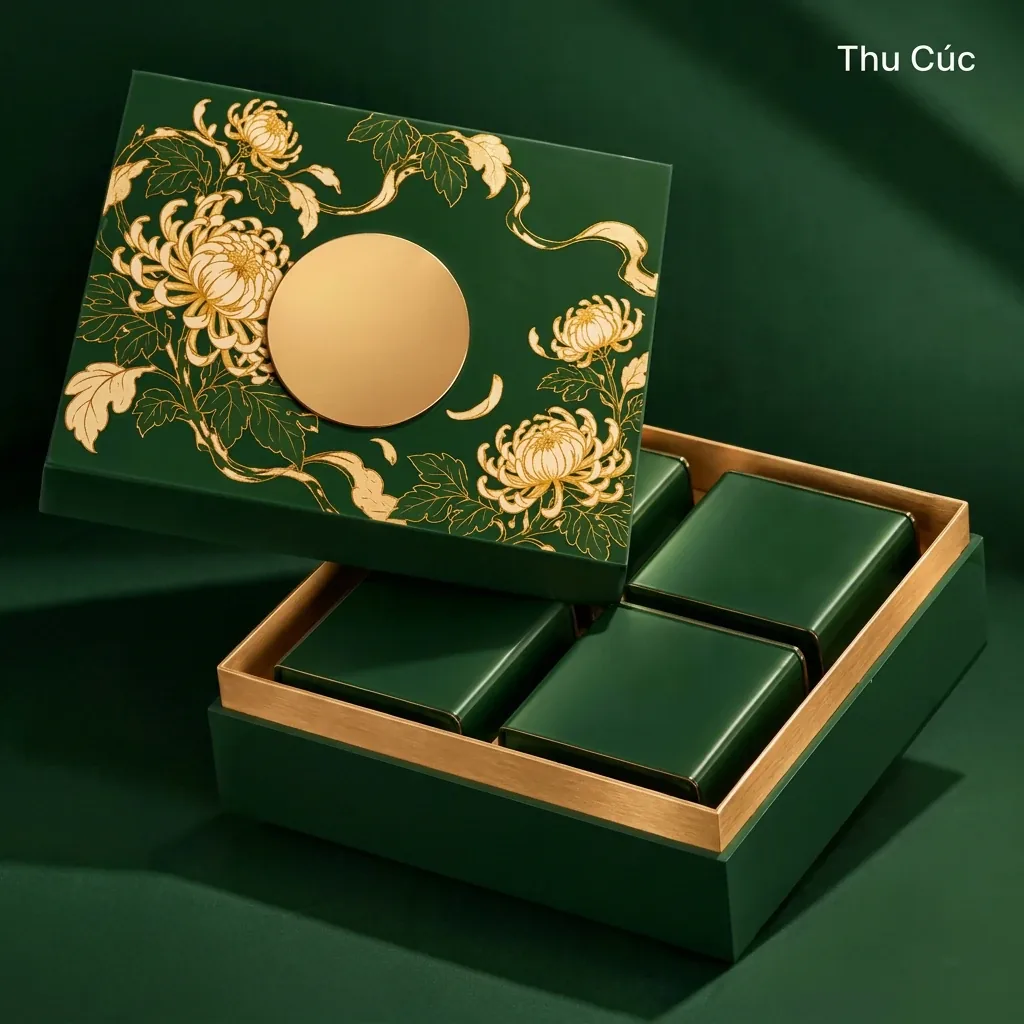
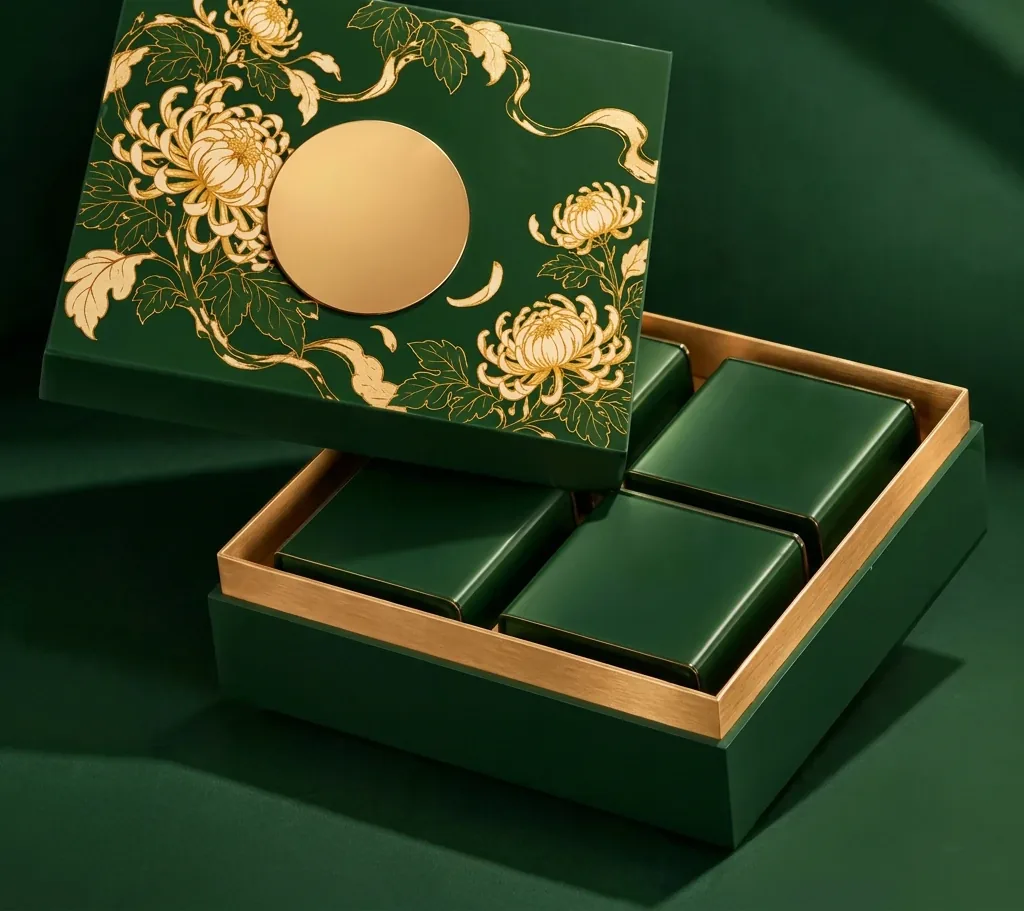
Sửa trang Set độc bản, khối liên hệ đỏ và footer theo góp ý
- Trang con: H1 "Set độc bản" kèm dòng ngân sách, tab mức giá dưới H1, câu giải thích
  ngân sách; ảnh lớn là ảnh hộp, ảnh bàn tiệc thành dải phía dưới; tên phối màu thành
  chú thích, xóa chữ in trên ảnh; ảnh hiện dần một lần.
- Trang chủ: viết lại chữ, đồng bộ dòng mô tả các mức, thêm ảnh nhỏ cho từng mức.
- Khối đỏ nền phẳng, nút trắng; ẩn bong bóng chat trên máy tính.
- Footer: logo đảo màu, gom lại ba cột, bỏ link trang tạm ẩn, © 2026, Hệ sinh thái 100B.

Claude-Session: https://claude.ai/code/session_01HS1DfBWRuWPnpXQLZtUEUG

diff --git a/src/styles/luxe.css b/src/styles/luxe.css
@@ -89,23 +89,24 @@
 
 /* ---------- Footer ---------- */
 .lx-foot { background: var(--lx-ink); color: #FFFFFF; padding: clamp(70px, 8vw, 110px) 0 36px; }
-.lx-foot-grid { display: grid; grid-template-columns: 1.4fr 1fr 1.6fr 1.2fr; gap: clamp(40px, 5vw, 80px); }
-.lx-foot-plate { display: inline-flex; padding: 14px 18px; background: var(--lx-paper); }
-.lx-foot-plate .logo { width: 132px; height: auto; }
+.lx-foot-grid { display: grid; grid-template-columns: 1.6fr 1fr 1fr 1.3fr; gap: clamp(40px, 5vw, 80px); }
+.lx-foot-brand { display: inline-flex; }
+.lx-foot-brand .logo { width: 132px; height: auto; }
 .lx-foot-tag { margin-top: 20px; max-width: 320px; font-size: 14.5px; color: rgba(255, 255, 255, 0.6); }
 .lx-foot-h { margin-bottom: 20px; font-size: 12px; letter-spacing: 0.2em; text-transform: uppercase; color: rgba(255, 255, 255, 0.5); }
 .lx-foot-l { display: flex; flex-direction: column; gap: 13px; font-size: 14.5px; color: rgba(255, 255, 255, 0.82); }
-.lx-foot-l-cols { display: grid; grid-template-columns: 1fr 1fr; gap: 13px 24px; }
 .lx-foot-l a:hover { color: #FF5C80; }
 .lx-foot-bot { display: flex; align-items: center; justify-content: space-between; gap: 24px; flex-wrap: wrap; margin-top: clamp(60px, 7vw, 96px); padding-top: 30px; border-top: 1px solid var(--lx-line-dark); font-size: 13px; color: rgba(255, 255, 255, 0.55); }
 .lx-foot-legal { display: flex; gap: 24px; }
 .lx-foot-legal a:hover { color: #FFFFFF; }
-.lx-foot-eco { display: flex; align-items: center; gap: 14px; font-family: var(--font-display); font-size: 13px; font-weight: 600; letter-spacing: 0.08em; color: rgba(255, 255, 255, 0.7); }
+.lx-foot-eco { display: flex; align-items: center; gap: 14px; font-family: var(--font-display); font-size: 13px; font-weight: 600; letter-spacing: 0.02em; color: rgba(255, 255, 255, 0.7); }
 .lx-foot-eco i { width: 4px; height: 4px; border-radius: 50%; background: var(--lx-red); }
 
 /* Nút Zalo nổi */
 .lx-fab { position: fixed; right: 28px; bottom: 28px; z-index: 90; width: 58px; height: 58px; display: flex; align-items: center; justify-content: center; background: var(--lx-red); color: #FFFFFF; box-shadow: 0 16px 36px var(--lx-red-glow); opacity: 0; transform: translateY(16px); pointer-events: none; transition: opacity 0.4s var(--lx-ease), transform 0.4s var(--lx-ease), background-color 0.3s; }
 .lx-fab.is-shown { opacity: 1; transform: none; pointer-events: auto; }
+/* Máy tính đã có nút Zalo trên menu, chỉ hiện bong bóng chat trên điện thoại và máy tính bảng */
+@media (min-width: 861px) { .lx-fab { display: none; } }
 .lx-fab:hover { background: var(--lx-red-deep); transform: scale(1.06); }
 
 /* ---------- Trang chủ ---------- */
@@ -346,12 +347,15 @@
 .lx-disc .lx-cross { margin-top: 6px; }
 .lx-disc p { font-size: 15px; line-height: 1.6; color: var(--lx-muted); }
 .lx-bud { margin-top: clamp(48px, 6vw, 76px); border-top: 1px solid var(--lx-ink); }
-.lx-bud-row { position: relative; isolation: isolate; display: grid; grid-template-columns: 60px 1.5fr 1fr auto; align-items: center; gap: clamp(20px, 3vw, 56px); padding: clamp(28px, 3.2vw, 42px) 16px; border-bottom: 1px solid var(--lx-line); transition: padding 0.6s var(--lx-ease); }
+.lx-bud-row { position: relative; isolation: isolate; display: grid; grid-template-columns: 40px 120px 1.2fr 1.2fr auto; align-items: center; gap: clamp(20px, 3vw, 56px); padding: clamp(18px, 2vw, 24px) 16px; border-bottom: 1px solid var(--lx-line); transition: padding 0.6s var(--lx-ease); }
+.lx-bud-thumb { display: block; width: 120px; aspect-ratio: 4 / 5; overflow: hidden; background: var(--lx-soft); }
+.lx-bud-thumb img { display: block; width: 100%; height: 100%; object-fit: cover; transition: transform 1.2s var(--lx-ease); }
+.lx-bud-row:hover .lx-bud-thumb img { transform: scale(1.05); }
 .lx-bud-row::before { content: ''; position: absolute; inset: 0; z-index: -1; background: var(--lx-card); opacity: 0; transition: opacity 0.6s var(--lx-ease); }
 .lx-bud-row:hover { padding-inline: 32px; }
 .lx-bud-row:hover::before { opacity: 1; }
 .lx-bud-no { font-family: var(--font-display); font-size: 13px; font-weight: 600; color: var(--lx-muted); }
-.lx-bud-money { font-family: var(--font-display); font-size: clamp(24px, 2.8vw, 38px); font-weight: 600; letter-spacing: -0.03em; font-variant-numeric: tabular-nums; }
+.lx-bud-money { font-family: var(--font-display); font-size: clamp(20px, 1.8vw, 26px); font-weight: 600; letter-spacing: -0.03em; font-variant-numeric: tabular-nums; }
 .lx-bud-money small { margin-left: 8px; font-size: 14px; font-weight: 400; letter-spacing: normal; color: var(--lx-muted); }
 .lx-bud-meta { font-size: 15px; color: var(--lx-muted); }
 .lx-bud-go { display: flex; align-items: center; gap: 10px; font-size: 13px; font-weight: 600; letter-spacing: 0.08em; text-transform: uppercase; }
@@ -377,8 +381,7 @@
 .lx-acc-ico::after { left: 0; top: 8.5px; width: 18px; height: 1.5px; }
 
 /* CTA đỏ */
-.lx-cta { position: relative; overflow: hidden; padding: clamp(96px, 11vw, 160px) 0; background: var(--lx-red); color: #FFFFFF; text-align: center; }
-.lx-cta::before { content: ''; position: absolute; inset: 0; background: radial-gradient(circle at center, rgba(255, 255, 255, 0.12) 0%, transparent 70%); }
+.lx-cta { position: relative; overflow: hidden; padding: clamp(96px, 11vw, 160px) 0; background: #DB0D3E; color: #FFFFFF; text-align: center; }
 .lx-cta .lx-wrap { position: relative; }
 .lx-cta h2 { font-size: clamp(34px, 5vw, 68px); letter-spacing: -0.03em; }
 .lx-cta p { max-width: 620px; margin: 24px auto 0; font-size: 17px; line-height: 1.65; color: rgba(255, 255, 255, 0.9); }
@@ -493,7 +496,8 @@
 .lx-sd-other-img svg { transition: transform 0.9s var(--lx-ease); }
 .lx-sd-other:hover .lx-sd-other-img svg { transform: scale(1.12); }
 @media (prefers-reduced-motion: reduce) {
-  .lx-sd-intro > * { animation: none; }
+  .lx-sd-intro > *, .lx-bp-hero-in > * { animation: none; }
+  .lx-bp-reveal .lx-bp-fig { opacity: 1; transform: none; transition: none; }
   .lx-sd-steps .lx-cmp-step-n, .lx-sd-items .lx-cmp-step-n { color: var(--lx-red); }
 }
 
@@ -501,28 +505,45 @@
 /* ---------- Trang con Set độc bản (/set-doc-ban/:slug) ---------- */
 .lx-bp { background: var(--lx-paper); }
 .lx-bp-hero { padding: calc(var(--lx-nav-h) + clamp(28px, 4vw, 56px)) 0 clamp(40px, 5vw, 72px); }
-.lx-bp-hero-row { display: flex; flex-wrap: wrap; align-items: flex-end; justify-content: space-between; gap: 32px 64px; }
-.lx-bp h1 { margin-top: 16px; font-family: var(--font-display); font-size: clamp(42px, 6vw, 88px); font-weight: 600; line-height: 0.98; letter-spacing: -0.04em; font-variant-numeric: tabular-nums; }
-.lx-bp h1 small { font-size: 0.32em; font-weight: 500; letter-spacing: 0; color: var(--lx-muted); }
-.lx-bp-meta { margin-top: 16px; font-size: clamp(16px, 1.3vw, 19px); color: var(--lx-muted); }
-.lx-bp-hero-side { display: flex; flex-direction: column; align-items: flex-start; gap: 24px; }
-.lx-bp-hero-side .lx-sd-actions { margin-top: 0; }
-.lx-bp-tiers { display: flex; flex-wrap: wrap; gap: 6px 22px; font-size: 14.5px; font-variant-numeric: tabular-nums; }
-.lx-bp-tiers a { padding-bottom: 4px; border-bottom: 1px solid transparent; color: var(--lx-muted); transition: color 0.3s var(--lx-ease), border-color 0.3s var(--lx-ease); }
+.lx-bp-hero-in { max-width: 760px; }
+.lx-bp h1 { margin-top: 16px; font-family: var(--font-display); font-size: clamp(40px, 5.4vw, 76px); font-weight: 600; line-height: 1; letter-spacing: -0.04em; }
+.lx-bp h1 span { display: block; margin-top: 12px; font-family: var(--font-sans, inherit); font-size: clamp(17px, 1.5vw, 21px); font-weight: 400; letter-spacing: 0; line-height: 1.4; color: var(--lx-muted); font-variant-numeric: tabular-nums; }
+.lx-bp-meta { margin-top: 10px; font-size: 15.5px; color: var(--lx-muted); }
+.lx-bp-tiers { display: flex; flex-wrap: wrap; gap: 4px 28px; margin-top: 28px; border-bottom: 1px solid var(--lx-line); font-size: 14px; font-weight: 500; font-variant-numeric: tabular-nums; }
+.lx-bp-tiers a { margin-bottom: -1px; padding: 10px 0 12px; border-bottom: 2px solid transparent; color: var(--lx-muted); transition: color 0.3s var(--lx-ease), border-color 0.3s var(--lx-ease); }
 .lx-bp-tiers a:hover { color: var(--lx-ink); }
-.lx-bp-tiers a.is-current { color: var(--lx-red); border-bottom-color: var(--lx-red); }
+.lx-bp-tiers a.is-current { color: var(--lx-ink); border-bottom-color: var(--lx-red); }
+.lx-bp-note { margin-top: 20px; max-width: 620px; font-size: 15px; line-height: 1.65; color: var(--lx-muted); }
+.lx-bp-hero-in .lx-sd-actions { margin-top: 28px; }
+/* Mở trang: phần đầu hiện dần một lần */
+@keyframes lx-bp-in { from { opacity: 0; transform: translateY(12px); } }
+.lx-bp-hero-in > * { animation: lx-bp-in 0.9s var(--lx-ease) both; }
+.lx-bp-hero-in > :nth-child(2) { animation-delay: 0.08s; }
+.lx-bp-hero-in > :nth-child(3) { animation-delay: 0.16s; }
+.lx-bp-hero-in > :nth-child(4) { animation-delay: 0.24s; }
+.lx-bp-hero-in > :nth-child(5) { animation-delay: 0.32s; }
+.lx-bp-hero-in > :nth-child(6) { animation-delay: 0.4s; }
 .lx-bp-body { padding-bottom: clamp(64px, 8vw, 120px); }
 .lx-bp-col { padding: clamp(44px, 5.5vw, 80px) 0; border-top: 1px solid var(--lx-line); }
 .lx-bp-col-head { margin-bottom: clamp(24px, 3vw, 40px); }
 .lx-bp-col-head h2 { margin-top: 12px; }
-.lx-bp-grid { display: grid; grid-template-columns: 1fr 1fr; gap: clamp(10px, 1.2vw, 18px); }
-.lx-bp-items { display: grid; grid-template-columns: 1fr 1fr; gap: clamp(10px, 1.2vw, 18px); }
-.lx-bp-shot { display: block; position: relative; overflow: hidden; background: var(--lx-soft); cursor: zoom-in; }
-.lx-bp-item { aspect-ratio: 1; }
-.lx-bp-cover { height: 100%; min-height: 100%; }
+.lx-bp-grid { display: grid; grid-template-columns: 1fr 1fr; gap: clamp(10px, 1.2vw, 18px); align-items: start; }
+.lx-bp-items { display: grid; grid-template-columns: 1fr 1fr; gap: clamp(16px, 1.6vw, 24px) clamp(10px, 1.2vw, 18px); }
+.lx-bp-row .lx-bp-items { grid-template-columns: repeat(4, 1fr); }
+.lx-bp-fig { display: flex; flex-direction: column; gap: 10px; }
+.lx-bp-fig figcaption { font-size: 12px; color: var(--lx-muted); }
+.lx-bp-shot { display: block; position: relative; width: 100%; overflow: hidden; background: var(--lx-soft); cursor: zoom-in; }
+.lx-bp-item .lx-bp-shot { aspect-ratio: var(--ar, 1); }
+.lx-bp-row .lx-bp-item .lx-bp-shot { aspect-ratio: 1024 / 911; }
+.lx-bp-cover .lx-bp-shot { aspect-ratio: 1; }
+.lx-bp-scene { margin-top: clamp(16px, 1.6vw, 24px); }
+.lx-bp-scene .lx-bp-shot { aspect-ratio: 21 / 8; }
 .lx-bp-shot img { display: block; width: 100%; height: 100%; object-fit: cover; transition: transform 1.4s var(--lx-ease); }
 .lx-bp-shot:hover img { transform: scale(1.04); }
 .lx-bp-shot:focus-visible { outline: 2px solid var(--lx-red); outline-offset: 3px; }
+/* Ảnh hiện dần một lần khi cuộn tới, lệch nhau 0,06 giây, thu nhẹ từ 102% về 100% */
+.lx-bp-reveal .lx-bp-fig { opacity: 0; transform: scale(1.02); transition: opacity 0.9s var(--lx-ease), transform 1.1s var(--lx-ease); transition-delay: calc(var(--i, 0) * 0.06s); }
+.lx-bp-reveal.is-in .lx-bp-fig { opacity: 1; transform: none; }
 .lx-bp-waiting { border-top: 1px solid var(--lx-line); }
 .lx-bp-wait { display: flex; align-items: baseline; gap: 20px; padding: 22px 0; border-bottom: 1px solid var(--lx-line); font-size: 16px; }
 .lx-bp-wait .is-pending { margin-left: auto; font-size: 14.5px; color: var(--lx-muted); font-style: italic; }
@@ -572,15 +593,17 @@
   .lx-cards { grid-template-columns: repeat(2, 1fr); gap: 28px 14px; }
   .lx-sd-shots { grid-template-columns: 1fr 1fr; }
   .lx-bp-grid { grid-template-columns: 1fr; }
-  .lx-bp-cover { height: auto; aspect-ratio: 1; }
+  .lx-bp-row .lx-bp-items { grid-template-columns: 1fr 1fr; }
+  .lx-bp-scene .lx-bp-shot { aspect-ratio: 3 / 2; }
   .lx-sd-shot:first-child { grid-column: 1 / -1; }
   .lx-lb { padding: 72px 16px; }
   .lx-lb-prev, .lx-lb-next { top: auto; bottom: 18px; }
   .lx-lb-prev { left: calc(50% - 60px); }
   .lx-lb-next { right: calc(50% - 60px); }
-    .lx-bud-row { grid-template-columns: 1fr auto; gap: 12px; }
+    .lx-bud-row { grid-template-columns: 88px 1fr auto; gap: 6px 16px; }
+  .lx-bud-thumb { width: 88px; grid-row: span 2; }
   .lx-bud-no { display: none; }
-  .lx-bud-meta { grid-column: 1 / -1; }
+  .lx-bud-meta { grid-column: 2 / -1; }
   .lx-foot-grid { grid-template-columns: 1fr; gap: 40px; }
   .lx-fab { right: 18px; bottom: 18px; }
 }

diff --git a/src/pages/BespokePage.tsx b/src/pages/BespokePage.tsx
@@ -1,4 +1,5 @@
-import { useCallback, useState } from 'react';
+import { useCallback, useState, type CSSProperties } from 'react';
+import { useInView } from '@/hooks/use-in-view';
 import { Link, useRoute } from 'wouter';
 import { bespokeTiers, pendingSpec, type BespokeCollection, type BespokeImage } from '@/data/content';
 import { SiteShell } from '@/components/layout/SiteChrome';
@@ -9,35 +10,47 @@ import { NotFoundPage } from '@/pages/UtilityPages';
 
 const pad = (n: number) => String(n).padStart(2, '0');
 
-function Shot({ img, className, onOpen, priority }: { img: BespokeImage; className: string; onOpen: () => void; priority?: boolean }) {
+function Shot({ img, className, onOpen, i, caption, priority }: { img: BespokeImage; className: string; onOpen: () => void; i: number; caption?: boolean; priority?: boolean }) {
   return (
-    <button type="button" className={`lx-bp-shot ${className}`} onClick={onOpen} aria-label={`Phóng to ảnh: ${img.name}`}>
-      <img src={img.src} alt={img.alt} width={1024} height={1024} loading={priority ? 'eager' : 'lazy'} decoding="async" style={img.pos ? { objectPosition: img.pos } : undefined} />
-    </button>
+    <figure className={`lx-bp-fig ${className}`} style={{ '--i': i } as CSSProperties}>
+      <button type="button" className="lx-bp-shot" onClick={onOpen} aria-label={`Phóng to ảnh: ${img.name}`}>
+        <img src={img.src} alt={img.alt} width={img.w ?? 1024} height={img.h ?? 1024} loading={priority ? 'eager' : 'lazy'} decoding="async" style={img.pos ? { objectPosition: img.pos } : undefined} />
+      </button>
+      {caption && <figcaption>{img.name}</figcaption>}
+    </figure>
   );
 }
 
-/** Một bộ sưu tập có ảnh: ảnh bìa vuông lớn bên trái, 4 mẫu xếp 2×2 bên phải. Bấm ảnh để phóng to. */
+/**
+ * Một bộ sưu tập có ảnh. Có ảnh bìa (ảnh thiết kế hộp): bìa vuông lớn bên trái, 4 phối màu 2×2 bên phải.
+ * Không có ảnh bìa: 4 phối màu xếp một hàng. Ảnh đời sống (scene) là dải mỏng phía dưới. Bấm ảnh để phóng to.
+ * Ảnh hiện dần một lần khi cuộn tới, lệch nhau 0,06 giây.
+ */
 function Collection({ col, no, unit, first }: { col: BespokeCollection; no: number; unit: string; first: boolean }) {
   const [shot, setShot] = useState<number | null>(null);
-  const images = [col.cover, ...col.items].filter(Boolean) as BespokeImage[];
+  const [ref, inView] = useInView<HTMLDivElement>({ threshold: 0.12, once: true, rootMargin: '0px 0px -8% 0px' });
+  const images = [col.cover, ...col.items, col.scene].filter(Boolean) as BespokeImage[];
   const close = useCallback(() => setShot(null), []);
   const move = useCallback((step: number) => setShot((i) => (i === null ? i : (i + step + images.length) % images.length)), [images.length]);
+  const at = (img: BespokeImage) => images.indexOf(img);
   return (
     <section className="lx-bp-col" aria-labelledby={`lx-bp-col-${no}`}>
-      <Reveal className="lx-bp-col-head">
+      <div className="lx-bp-col-head">
         <p className="lx-eyebrow">{unit} {pad(no)}</p>
         <h2 id={`lx-bp-col-${no}`}>{col.name}</h2>
-      </Reveal>
-      <Reveal className="lx-bp-grid" delay={1}>
-        {col.cover && <Shot img={col.cover} className="lx-bp-cover" onOpen={() => setShot(0)} priority={first} />}
-        <div className="lx-bp-items">
-          {col.items.map((img, i) => <Shot key={img.src} img={img} className="lx-bp-item" onOpen={() => setShot(i + (col.cover ? 1 : 0))} />)}
+      </div>
+      <div ref={ref} className={`lx-bp-reveal${inView ? ' is-in' : ''}`}>
+        <div className={col.cover ? 'lx-bp-grid' : 'lx-bp-row'}>
+          {col.cover && <Shot img={col.cover} i={0} className="lx-bp-cover" onOpen={() => setShot(at(col.cover!))} priority={first} />}
+          <div className="lx-bp-items">
+            {col.items.map((img, i) => <Shot key={img.src} img={img} i={i + 1} caption className="lx-bp-item" onOpen={() => setShot(at(img))} priority={first && !col.cover} />)}
+          </div>
         </div>
-      </Reveal>
+        {col.scene && <Shot img={col.scene} i={col.items.length + 1} caption className="lx-bp-scene" onOpen={() => setShot(at(col.scene!))} />}
+      </div>
       {shot !== null && (
         <Lightbox
-          slides={images.map((img) => ({ caption: img.name === col.name ? `Bộ sưu tập ${col.name}` : `${img.name} · ${col.name}`, label: `Ảnh ${col.name}`, content: <img src={img.src} alt={img.alt} /> }))}
+          slides={images.map((img) => ({ caption: img === col.cover ? `Bộ sưu tập ${col.name}` : `${img.name} · ${col.name}`, label: `Ảnh ${col.name}`, content: <img src={img.src} alt={img.alt} /> }))}
           index={shot}
           onClose={close}
           onMove={move}
@@ -67,22 +80,19 @@ export function BespokePage() {
               <span aria-hidden="true">/</span>
               <span aria-current="page">{tier.money}</span>
             </nav>
-            <div className="lx-bp-hero-row">
-              <div className="lx-sd-intro">
-                <p className="lx-eyebrow">Set độc bản</p>
-                <h1 id="lx-bp-title">{tier.money} <small>/ set</small></h1>
-                <p className="lx-bp-meta">{tier.meta}</p>
-              </div>
-              <div className="lx-bp-hero-side">
-                <nav className="lx-bp-tiers" aria-label="Các mức ngân sách">
-                  {bespokeTiers.map((t) => (
-                    <Link key={t.slug} href={`/set-doc-ban/${t.slug}`} className={t.slug === tier.slug ? 'is-current' : undefined} aria-current={t.slug === tier.slug ? 'page' : undefined}>{t.money}</Link>
-                  ))}
-                </nav>
-                <div className="lx-sd-actions">
-                  <ZaloLink className="lx-btn lx-btn-red">Tư vấn qua Zalo</ZaloLink>
-                  <Link href="/#quy-trinh" className="lx-sd-textlink">Xem quy trình <span aria-hidden="true">→</span></Link>
-                </div>
+            <div className="lx-bp-hero-in">
+              <p className="lx-eyebrow">Mô hình 02</p>
+              <h1 id="lx-bp-title">Set độc bản <span>ngân sách {tier.money} mỗi set</span></h1>
+              <p className="lx-bp-meta">{tier.meta}</p>
+              <nav className="lx-bp-tiers" aria-label="Các mức ngân sách">
+                {bespokeTiers.map((t) => (
+                  <Link key={t.slug} href={`/set-doc-ban/${t.slug}`} className={t.slug === tier.slug ? 'is-current' : undefined} aria-current={t.slug === tier.slug ? 'page' : undefined}>{t.money}</Link>
+                ))}
+              </nav>
+              <p className="lx-bp-note">Ngân sách tham khảo cho trọn bộ, gồm thiết kế riêng, bao bì và sản phẩm bên trong. Sản lượng tối thiểu và báo giá chính xác theo từng dự án.</p>
+              <div className="lx-sd-actions">
+                <ZaloLink className="lx-btn lx-btn-red">Tư vấn qua Zalo</ZaloLink>
+                <Link href="/#quy-trinh" className="lx-sd-textlink">Xem quy trình <span aria-hidden="true">→</span></Link>
               </div>
             </div>
           </div>

diff --git a/src/data/content.ts b/src/data/content.ts
@@ -178,10 +178,13 @@ export const readySets: ReadySet[] = [
 ];
 
 /** Một ảnh trong trang Set độc bản. pos là object-position khi ảnh được cắt vào khung vuông. */
-export type BespokeImage = { src: string; name: string; alt: string; pos?: string };
-/** Một bộ sưu tập (hoặc một mẫu riêng ở mức cao). Chưa có ảnh thì để trống cover và items. */
-export type BespokeCollection = { name?: string; cover?: BespokeImage; items: BespokeImage[] };
-export type BespokeTier = { slug: string; money: string; meta: string; unit: string; collections: BespokeCollection[] };
+export type BespokeImage = { src: string; name: string; alt: string; pos?: string; w?: number; h?: number };
+/**
+ * Một bộ sưu tập (hoặc một mẫu riêng ở mức cao). Chưa có ảnh thì để trống cover và items.
+ * cover luôn là ảnh thiết kế hộp; ảnh đời sống (bày trên bàn tiệc...) đặt ở scene, hiện thành dải nhỏ phía dưới.
+ */
+export type BespokeCollection = { name?: string; cover?: BespokeImage; items: BespokeImage[]; scene?: BespokeImage };
+export type BespokeTier = { slug: string; money: string; meta: string; unit: string; thumb?: string; collections: BespokeCollection[] };
 
 const b499 = '/assets/bespoke/499';
 const tuQuy = 'Tứ Quý Cát Tường';
@@ -191,17 +194,17 @@ const pending = (n: number): BespokeCollection[] => Array.from({ length: n }, ()
 /** Bốn mức ngân sách Set độc bản; mỗi mức có một trang con /set-doc-ban/:slug. */
 export const bespokeTiers: BespokeTier[] = [
   {
-    slug: '499', money: '499.000đ', meta: '5 bộ sưu tập · 20 mẫu', unit: 'Bộ sưu tập',
+    slug: '499', money: '499.000đ', thumb: `${b499}/tu-quy-xuan-tung.webp`, meta: '5 bộ sưu tập · 4 phối màu mỗi bộ', unit: 'Bộ sưu tập',
     collections: [
       {
         name: tuQuy,
-        cover: { src: `${b499}/tu-quy-cover.webp`, name: tuQuy, alt: `Bộ sưu tập ${tuQuy}: hộp quà đỏ họa tiết tùng bày trên bàn tiệc Tết`, pos: '78% 50%' },
         items: [
-          { src: `${b499}/tu-quy-xuan-tung.webp`, name: 'Xuân Tùng', alt: `Mẫu Xuân Tùng, bộ sưu tập ${tuQuy}: hộp đỏ họa tiết tùng vàng` },
-          { src: `${b499}/tu-quy-ha-truc.webp`, name: 'Hạ Trúc', alt: `Mẫu Hạ Trúc, bộ sưu tập ${tuQuy}: hộp xanh navy họa tiết trúc vàng` },
-          { src: `${b499}/tu-quy-thu-cuc.webp`, name: 'Thu Cúc', alt: `Mẫu Thu Cúc, bộ sưu tập ${tuQuy}: hộp xanh lục họa tiết cúc vàng` },
-          { src: `${b499}/tu-quy-dong-mai.webp`, name: 'Đông Mai', alt: `Mẫu Đông Mai, bộ sưu tập ${tuQuy}: hộp màu kem họa tiết mai` },
+          { w: 1024, h: 911, src: `${b499}/tu-quy-xuan-tung.webp`, name: 'Xuân Tùng', alt: `Mẫu Xuân Tùng, bộ sưu tập ${tuQuy}: hộp đỏ họa tiết tùng vàng` },
+          { w: 1024, h: 911, src: `${b499}/tu-quy-ha-truc.webp`, name: 'Hạ Trúc', alt: `Mẫu Hạ Trúc, bộ sưu tập ${tuQuy}: hộp xanh navy họa tiết trúc vàng` },
+          { w: 1024, h: 911, src: `${b499}/tu-quy-thu-cuc.webp`, name: 'Thu Cúc', alt: `Mẫu Thu Cúc, bộ sưu tập ${tuQuy}: hộp xanh lục họa tiết cúc vàng` },
+          { w: 1024, h: 911, src: `${b499}/tu-quy-dong-mai.webp`, name: 'Đông Mai', alt: `Mẫu Đông Mai, bộ sưu tập ${tuQuy}: hộp màu kem họa tiết mai` },
         ],
+        scene: { w: 1264, h: 848, src: `${b499}/tu-quy-cover.webp`, name: 'Khi bày trên bàn tiệc', alt: `Hộp ${tuQuy} màu đỏ bày cùng mứt và hạt trên bàn tiệc Tết`, pos: '50% 55%' },
       },
       {
         name: sonDuong,
@@ -216,9 +219,9 @@ export const bespokeTiers: BespokeTier[] = [
       ...pending(3),
     ],
   },
-  { slug: '799', money: '799.000đ', meta: '4 bộ sưu tập · 16 mẫu', unit: 'Bộ sưu tập', collections: pending(4) },
-  { slug: '1299', money: '1.299.000đ', meta: '3 mẫu thiết kế hoàn chỉnh', unit: 'Mẫu', collections: pending(3) },
-  { slug: '2399', money: '2.399.000đ', meta: '2 lựa chọn cao cấp nhất', unit: 'Lựa chọn', collections: pending(2) },
+  { slug: '799', money: '799.000đ', meta: '4 bộ sưu tập · 4 phối màu mỗi bộ', unit: 'Bộ sưu tập', collections: pending(4) },
+  { slug: '1299', money: '1.299.000đ', meta: '3 mẫu thiết kế riêng', unit: 'Mẫu', collections: pending(3) },
+  { slug: '2399', money: '2.399.000đ', meta: '2 mẫu thiết kế riêng', unit: 'Mẫu', collections: pending(2) },
 ];
 
 export const giftModels = {

diff --git a/src/components/layout/SiteChrome.tsx b/src/components/layout/SiteChrome.tsx
@@ -62,48 +62,45 @@ export function SiteHeader() {
   );
 }
 
-const footerSitemap: [string, string][] = [
-  ['Về BOND', '/ve-bond'], ['Bộ sưu tập', '/bo-suu-tap'], ['Quà tặng doanh nghiệp', '/qua-tang'], ['Bao bì thương hiệu', '/bao-bi'],
-  ['Vật phẩm quảng cáo', '/vat-pham'], ['Dự án', '/du-an'], ['Năng lực', '/nang-luc'], ['Góc nhìn', '/goc-nhin'],
-  ['Câu hỏi thường gặp', '/cau-hoi-thuong-gap'], ['Tài liệu', '/tai-lieu'], ['Tuyển dụng', '/tuyen-dung'], ['Liên hệ', '/lien-he'],
-];
-
 export function SiteFooter() {
   return (
     <footer className="lx-foot">
       <div className="lx-wrap">
         <div className="lx-foot-grid">
           <div>
-            {/* Logo chính thức đặt trên tấm nền ngà để giữ tương phản trên nền mực */}
-            <Link href="/" className="lx-foot-plate" aria-label="Về trang chủ BOND"><Logo /></Link>
+            <Link href="/" className="lx-foot-brand" aria-label="Về trang chủ BOND">
+              {/* Bản đảo màu của logo chính thức: khối B giữ đỏ BOND, chữ BOND trắng, nền trong suốt */}
+              <img className="logo" src="/assets/bond-logo-knockout.png" alt="BOND" width={5956} height={1524} />
+            </Link>
             <p className="lx-foot-tag">Quà tặng doanh nghiệp, giải pháp bao bì và trải nghiệm thương hiệu. Thành viên hệ sinh thái 100B.</p>
           </div>
           <div>
-            <p className="lx-foot-h">Danh mục quà Tết</p>
+            <p className="lx-foot-h">Danh mục</p>
             <div className="lx-foot-l">
-              <a href="/#set-san">Set quà sẵn</a>
-              <a href="/#set-doc-ban">Set quà độc bản</a>
-              <a href="/#quy-trinh">Quy trình triển khai</a>
+              <Link href="/#set-san">Set sẵn</Link>
+              <Link href="/#set-doc-ban">Set độc bản</Link>
             </div>
           </div>
           <div>
-            <p className="lx-foot-h">BOND</p>
-            <div className="lx-foot-l lx-foot-l-cols">
-              {footerSitemap.map(([label, href]) => <Link key={href} href={href}>{label}</Link>)}
+            <p className="lx-foot-h">Về BOND</p>
+            <div className="lx-foot-l">
+              <Link href="/ve-bond">Về BOND</Link>
+              <Link href="/#quy-trinh">Quy trình</Link>
+              <Link href="/cau-hoi-thuong-gap">Câu hỏi thường gặp</Link>
             </div>
           </div>
           <div>
-            <p className="lx-foot-h">Văn phòng tư vấn</p>
+            <p className="lx-foot-h">Liên hệ</p>
             <div className="lx-foot-l">
-              <ZaloLink>Trò chuyện qua Zalo doanh nghiệp</ZaloLink>
+              <ZaloLink>Zalo doanh nghiệp</ZaloLink>
               {officeLines.map((line) => <span key={line}>{line}</span>)}
             </div>
           </div>
         </div>
         <div className="lx-foot-bot">
-          <span>© 2026-2027 BOND. Tất cả quyền được bảo lưu.</span>
+          <span>© 2026 BOND. Tất cả quyền được bảo lưu.</span>
           <span className="lx-foot-legal"><Link href="/chinh-sach-bao-mat">Chính sách bảo mật</Link><Link href="/dieu-khoan">Điều khoản</Link></span>
-          <span className="lx-foot-eco">ZAD <i /> BOND <i /> 100B ECOSYSTEM</span>
+          <span className="lx-foot-eco">ZAD <i /> BOND <i /> Hệ sinh thái 100B</span>
         </div>
       </div>
     </footer>

diff --git a/src/pages/HomePage.tsx b/src/pages/HomePage.tsx
@@ -435,15 +435,16 @@ function Bespoke() {
             <h2 id="lx-custom-title">Set độc bản</h2>
             <div className="lx-disc">
               <span className="lx-cross" aria-hidden="true" />
-              <p>Mỗi đề xuất dưới đây là một điểm xuất phát ý niệm sáng tạo. BOND cùng đội ngũ ZAD sẽ phát triển cấu trúc bao bì và trải nghiệm unboxing độc quyền cho riêng thương hiệu của bạn.</p>
+              <p>Mỗi mẫu dưới đây là một hướng thiết kế để bắt đầu. BOND và ZAD sẽ phát triển kết cấu hộp và trải nghiệm mở hộp riêng cho thương hiệu của anh chị, không dùng lại cho bất kỳ khách nào khác.</p>
             </div>
           </div>
-          <p className="lx-lead">Lựa chọn khung ngân sách mục tiêu để tiếp cận bộ sưu tập ý niệm tương ứng.</p>
+          <p className="lx-lead">Chọn mức ngân sách của anh chị để xem các hướng thiết kế tương ứng.</p>
         </Reveal>
         <Reveal className="lx-bud">
           {bespokeTiers.map((b, i) => (
             <Link key={b.slug} href={`/set-doc-ban/${b.slug}`} className="lx-bud-row">
               <span className="lx-bud-no">{pad(i + 1)}</span>
+              <span className="lx-bud-thumb" aria-hidden="true">{b.thumb && <img src={b.thumb} alt="" width={120} height={150} loading="lazy" decoding="async" />}</span>
               <span className="lx-bud-money">{b.money} <small>ngân sách / set</small></span>
               <span className="lx-bud-meta">{b.meta}</span>
               <span className="lx-bud-go">Xem mẫu <span aria-hidden="true">→</span></span>
